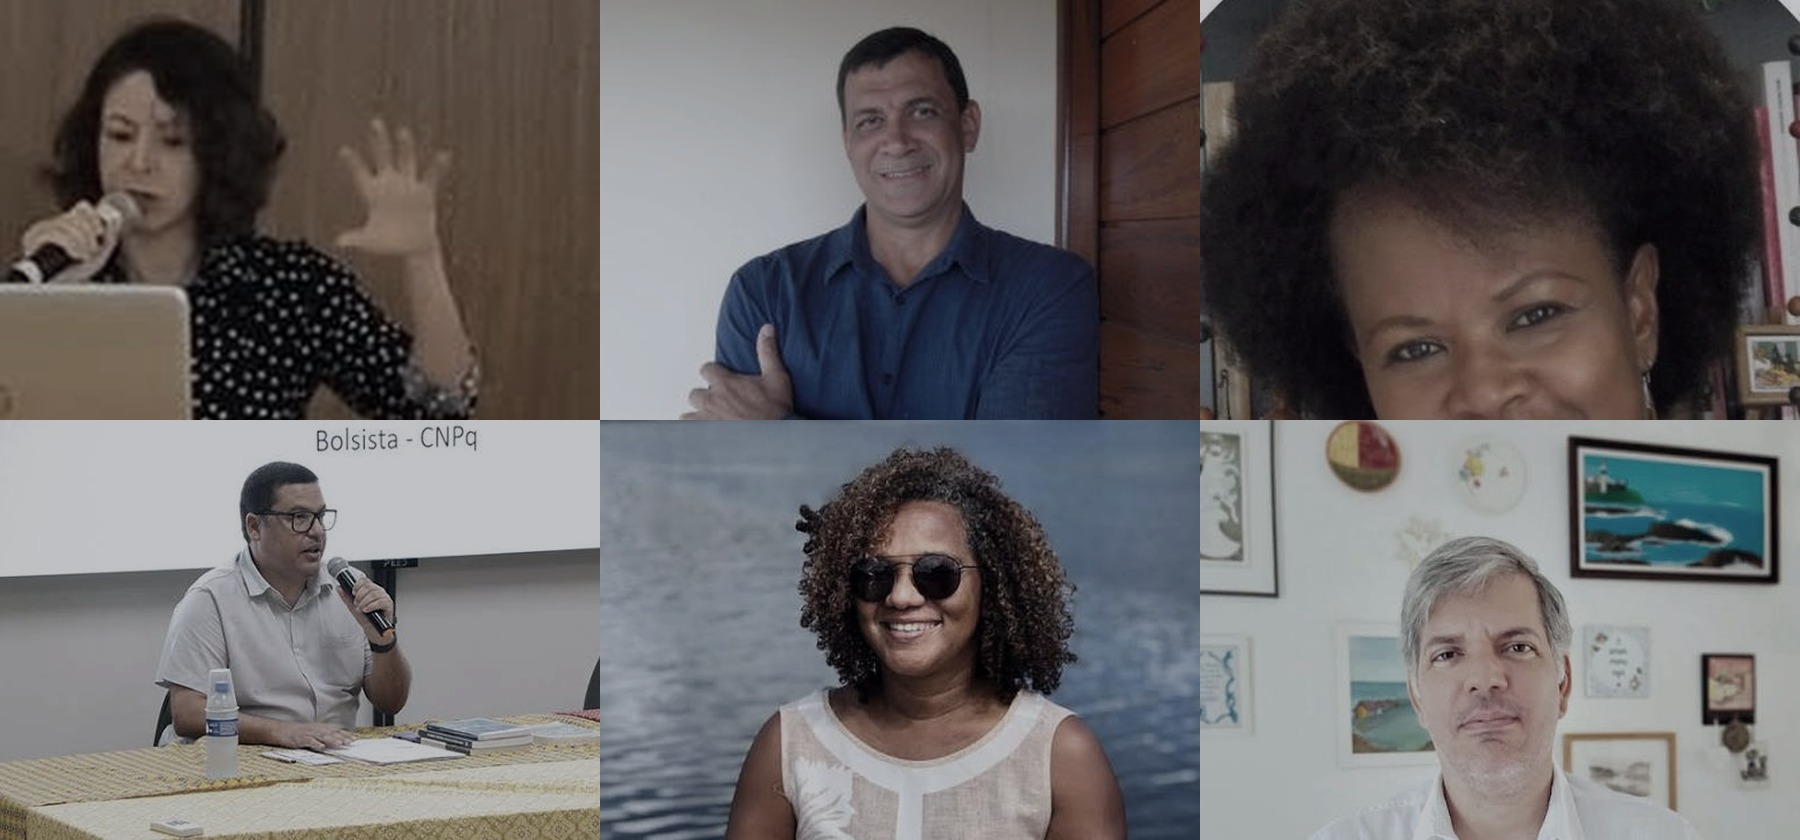
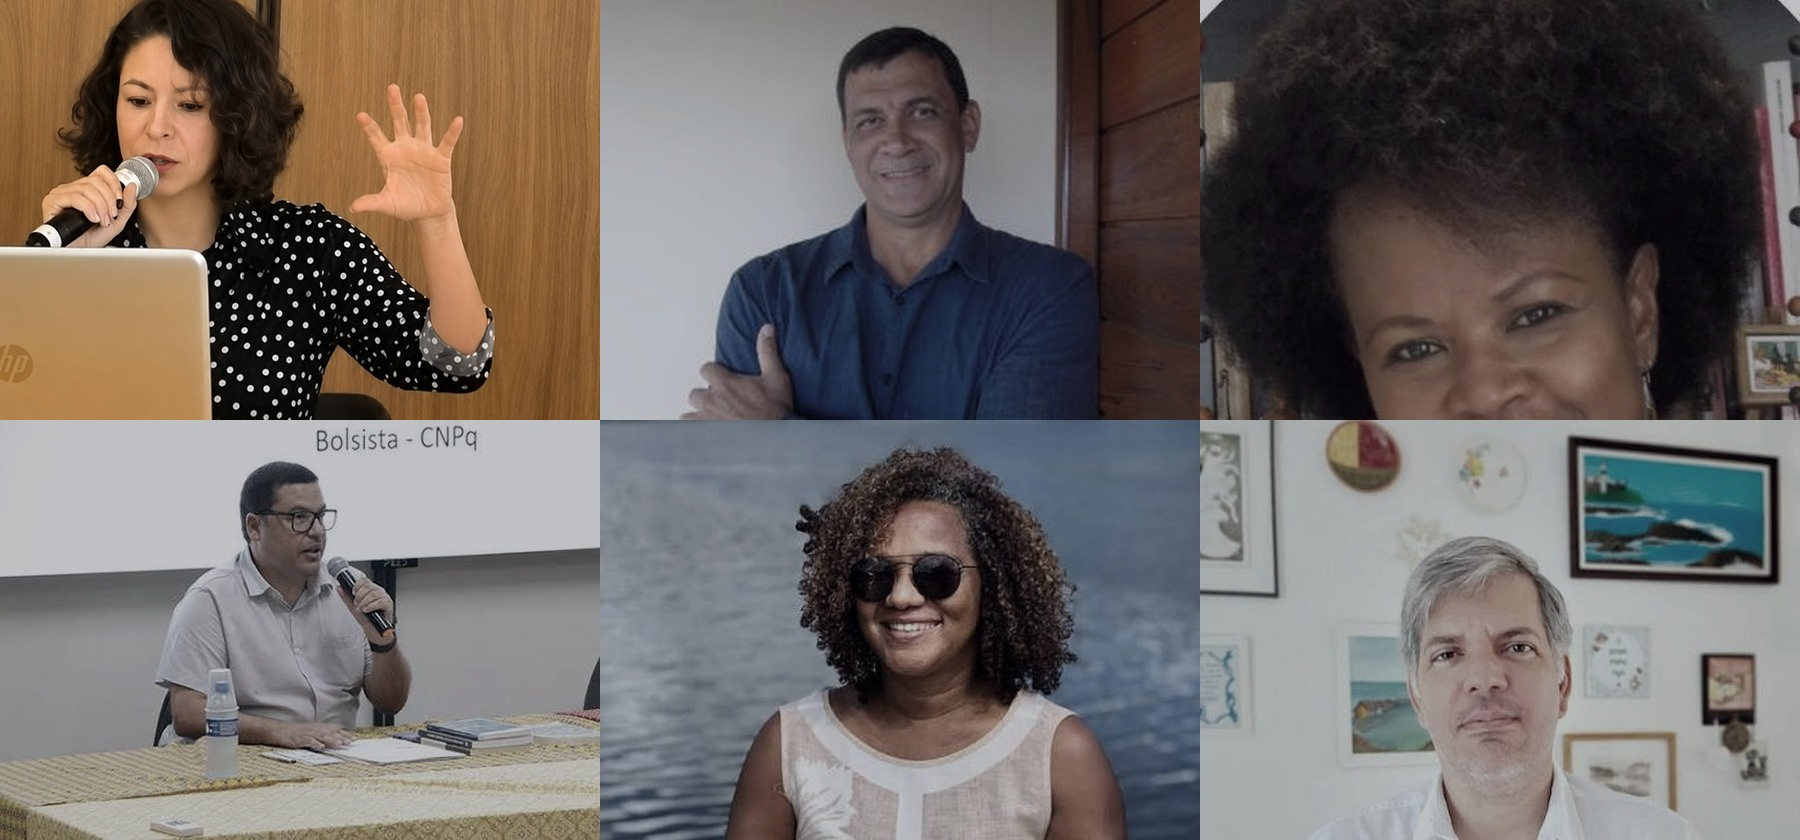
atualizar camila

Changed region(s): [[0.0, 0.0, 0.3422, 0.5262]]

diff --git a/pages/professora-camila.html b/pages/professora-camila.html
@@ -9,5 +9,5 @@
     <a href="professores.html">Professores</a><a href="egressos.html">Egressos</a><a href="projetos.html">Projetos</a><a href="producao.html">Produção</a><a href="tccs.html">Pesquisa discente</a>
     <a href="depoimentos.html">Depoimentos</a><a href="mapa.html">Mapa dos egressos</a><a href="galeria.html">Galeria</a><a href="documentos.html">Documentos</a>
   </nav>
-</header><section class="page-hero"><div class="page-hero-inner"><p class="eyebrow">Memorial 20 anos</p><h1>Camila Santiago</h1><p>Página individual de memória docente.</p></div></section>
+</header><section class="page-hero hero-camila"><div class="page-hero-inner"><p class="eyebrow">Memorial 20 anos</p><h1>Camila Santiago</h1><p>Página individual de memória docente.</p></div></section>
 <main class="content"><div class="grid"><article class="card"><img src="../assets/camila-santiago.jpg"><h3>Perfil</h3><p>Texto provisório para biografia, atuação no curso, disciplinas, projetos e memórias.</p></article><article class="card"><h3>Depoimento oral</h3><p>Espaço para áudio ou vídeo da professora.</p><audio controls><source src="../assets/depoimento-camila.mp3" type="audio/mpeg"></audio></article><article class="card"><h3>Atividades</h3><p>Ensino de História, formação docente, gênero, currículo e práticas pedagógicas.</p></article></div></main><footer class="footer"><p>Memorial dos 20 anos do Curso de História da UFRB</p><p>Cachoeira — Bahia</p></footer><script src="../script.js?v=41"></script></body></html>

diff --git a/style.css b/style.css
@@ -1786,3 +1786,18 @@ body.map-page-wide .alumni-map-layout-full .map-full{min-height:680px}
   .history-record-card img{width:84px;height:84px}
   .history-record-actions{grid-column:1/-1}
 }
+
+
+/* Foto contextual da página de Camila Santiago */
+.page-hero.hero-camila{
+  min-height:520px;
+  display:flex;
+  align-items:flex-end;
+  background-image:linear-gradient(90deg,rgba(7,30,70,.86),rgba(7,30,70,.34),rgba(7,30,70,.08)),url("assets/camila-santiago.jpg");
+  background-size:cover;
+  background-position:center 38%;
+}
+.page-hero.hero-camila .page-hero-inner{width:100%;}
+@media (max-width:760px){
+  .page-hero.hero-camila{min-height:430px;background-position:center 30%;}
+}
